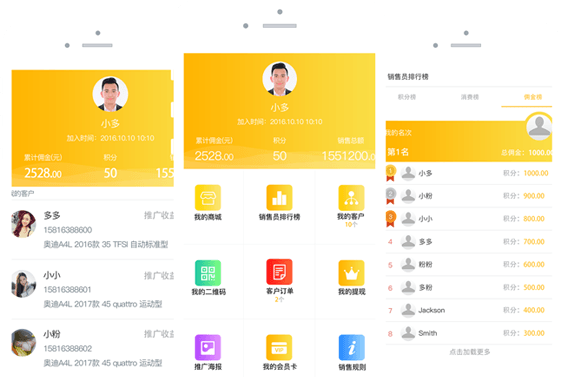
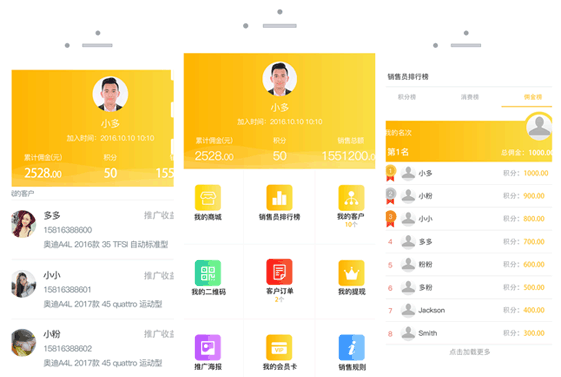
官网代运营

diff --git a/WebContent/css/official.css b/WebContent/css/official.css
@@ -29,7 +29,7 @@ a{text-decoration:none;color:#333;}
     overflow: hidden;
 }
 .a-swiper-wsc{
-    background-image: url(../images/index/wsc.png);
+    background-image: url(../images/index/wsc.jpg);
     width: 100%;
     height: 616px;
     background-repeat: no-repeat;
@@ -89,7 +89,7 @@ a{text-decoration:none;color:#333;}
     background:#fff;
 }
 .a-swiper-yz{
-    background-image: url(../images/index/xcx.png);
+    background-image: url(../images/index/xcx.jpg);
     width: 100%;
     height: 616px;
     background-repeat: no-repeat;
@@ -115,7 +115,7 @@ a{text-decoration:none;color:#333;}
     background:#fff;
 }
 .a-swiper-syt{
-    background-image: url(../images/index/syt.png);
+    background-image: url(../images/index/syt.jpg);
     width: 100%;
     height: 616px;
     background-repeat: no-repeat;
@@ -141,7 +141,7 @@ a{text-decoration:none;color:#333;}
     background:#fff;
 }
 .a-swiper-fx{
-    background-image: url(../images/index/fx.png);
+    background-image: url(../images/index/fx.jpg);
     width: 100%;
     height: 616px;
     background-repeat: no-repeat;
@@ -167,7 +167,7 @@ a{text-decoration:none;color:#333;}
     background:#fff;
 }
 .a-swiper-xcm{
-    background-image: url(../images/index/xcm.png);
+    background-image: url(../images/index/xcm.jpg);
     width: 100%;
     height: 616px;
     background-repeat: no-repeat;
@@ -193,7 +193,7 @@ a{text-decoration:none;color:#333;}
     background:#fff;
 }
 .a-swiper-cxs{
-    background-image: url(../images/index/cxs.png);
+    background-image: url(../images/index/cxs.jpg);
     width: 100%;
     height: 616px;
     background-repeat: no-repeat;
@@ -219,7 +219,7 @@ a{text-decoration:none;color:#333;}
     background:#fff;
 }
 .a-swiper-cxb{
-    background-image: url(../images/index/cxb.png);
+    background-image: url(../images/index/cxb.jpg);
     width: 100%;
     height: 616px;
     background-repeat: no-repeat;
